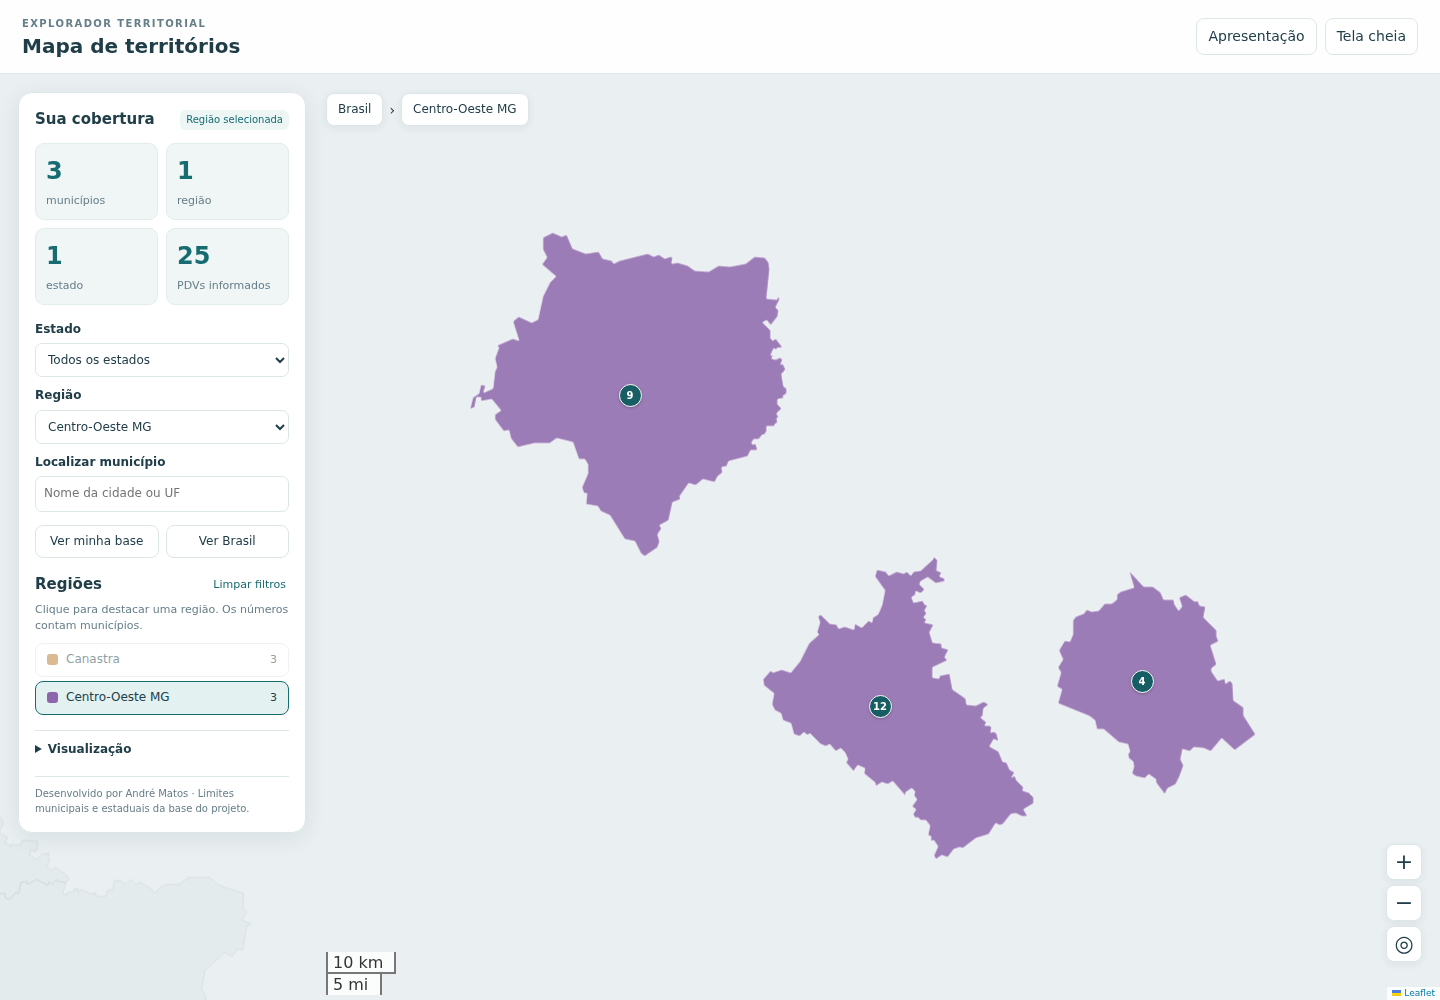
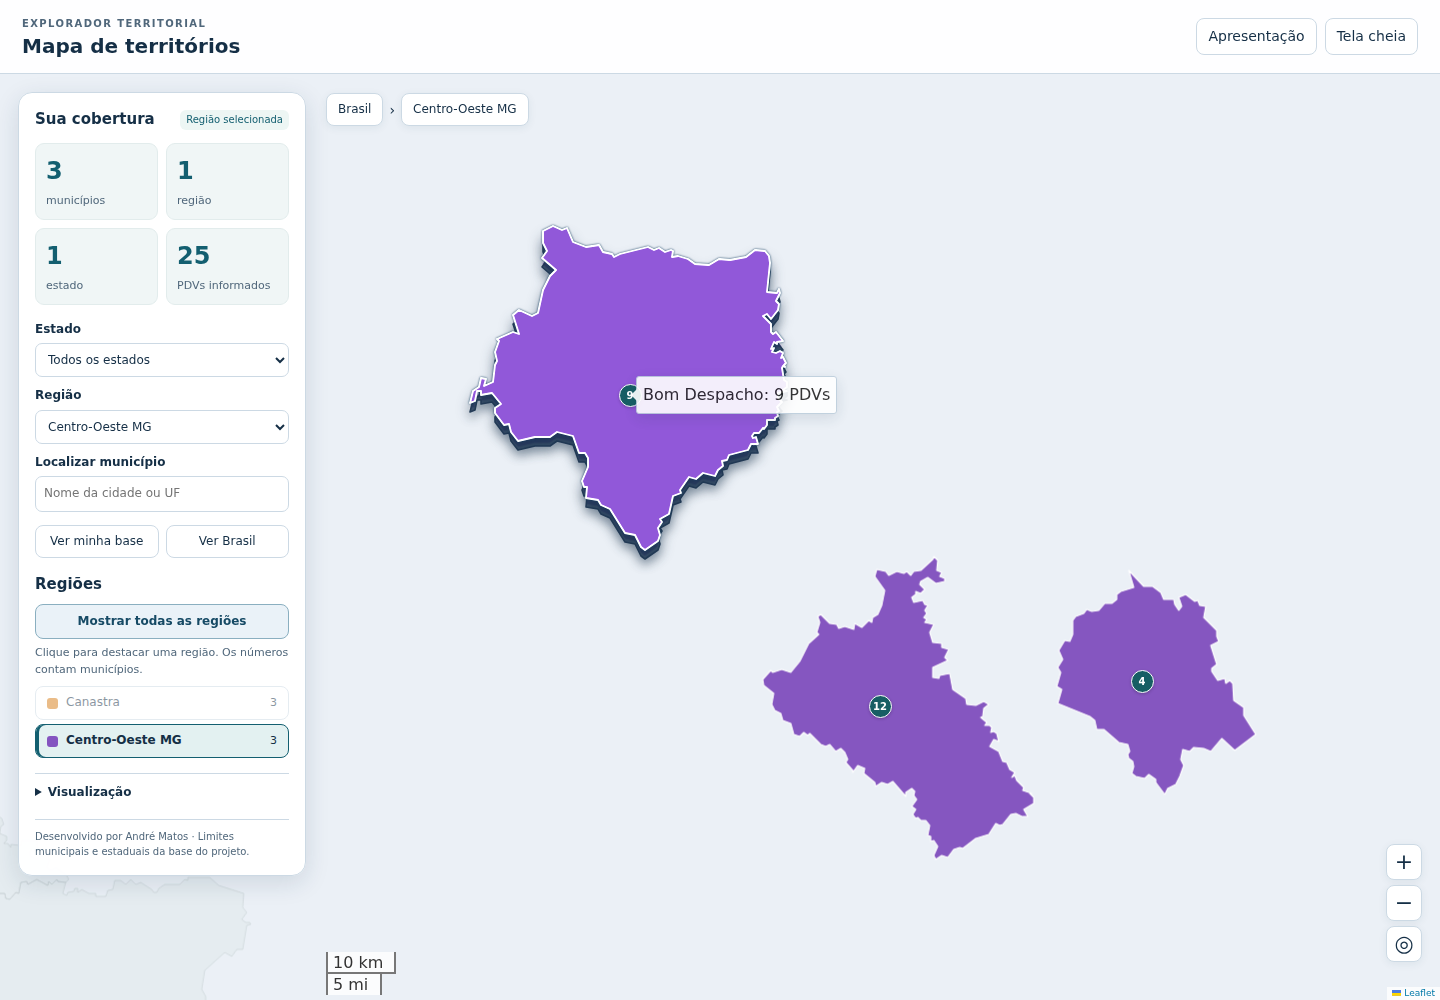
Reforça contraste e relevo dos territórios e remove demonstração

diff --git a/mapas/assets/explorador.js b/mapas/assets/explorador.js
@@ -11,6 +11,12 @@ let selectedState = '', selectedRegion = '', selectedCity = null, currentTiles =
 let geographic = false, presentation = config.apresentacao;
 let pendingResize = null;
 let municipalBoundaries = null;
+let hoveredFeature = null;
+map.createPane('territory-emphasis');
+map.getPane('territory-emphasis').style.zIndex = 460;
+map.getPane('territory-emphasis').style.pointerEvents = 'none';
+const emphasisRenderer = L.svg({pane: 'territory-emphasis', padding: .5});
+const emphasis = L.layerGroup().addTo(map);
 
 function node(tag, text, className) {
   const el = document.createElement(tag);
@@ -42,16 +48,41 @@ function fitBase() {
 function styleCity(f) {
   const active = matches(f.properties), selected = String(f.properties.id) === selectedCity;
   return {color: selected ? '#122c39' : active ? '#ffffff' : '#c4ced2',
-          weight: selected ? 2.8 : active ? .8 : .45,
+          weight: selected ? 2.8 : active ? 1.15 : .6,
           fillColor: active ? f.properties.cor : '#cbd5d9',
-          fillOpacity: active ? (geographic ? .53 : .84) : .15};
+          fillOpacity: active ? (geographic ? .72 : .98) : .20};
 }
 function styleState(f) {
   const uf = f.properties.uf;
   const inBase = baseStates.has(uf);
-  return {color: uf === selectedState ? '#174f62' : '#96aab2',
+  return {color: uf === selectedState ? '#174f62' : '#a5b4c4',
           weight: uf === selectedState ? 2.5 : inBase ? 1.4 : .8,
-          fillColor: '#e4ebee', fillOpacity: geographic ? 0 : .63};
+          fillColor: '#e9eff5', fillOpacity: geographic ? 0 : .86};
+}
+function renderEmphasis() {
+  emphasis.clearLayers();
+  const feature = hoveredFeature || (selectedCity ? byId.get(selectedCity) : null);
+  if (!feature) return;
+  const isCity = Boolean(feature.properties.regiao);
+  const addSurface = (className, style) => {
+    const surface = L.geoJSON(feature, {interactive: false, renderer: emphasisRenderer,
+      pane: 'territory-emphasis', style}).addTo(emphasis);
+    surface.eachLayer(layer => {
+      const path = layer.getElement();
+      path.classList.add(className);
+      path.classList.toggle('is-hovered', Boolean(hoveredFeature));
+      path.setAttribute('data-territory-id', String(feature.properties.id || feature.properties.uf));
+      path.setAttribute('aria-hidden', 'true');
+    });
+  };
+  addSurface('territory-wall', {fill: isCity, fillColor: '#273e59', fillOpacity: .85,
+    color: '#273e59', weight: isCity ? 1.6 : 3.2});
+  addSurface('territory-face', {fill: isCity, fillColor: feature.properties.cor || '#bccbdd',
+    fillOpacity: 1, color: isCity ? '#ffffff' : '#284d70', weight: isCity ? 1.8 : 2.1});
+}
+function hoverTerritory(feature) { hoveredFeature = feature; renderEmphasis(); }
+function leaveTerritory(feature) {
+  if (hoveredFeature === feature) { hoveredFeature = null; renderEmphasis(); }
 }
 function closeDetail() {
   selectedCity = null; $('detail-panel').hidden = true;
@@ -136,6 +167,8 @@ const stateContext = L.geoJSON(states, {style: styleState, onEachFeature: (f, la
   const uf = f.properties.uf; stateLayers.set(uf, layer);
   layer.bindTooltip(node('span', uf), {sticky: true});
   layer.on('click', () => setFilters(uf, ''));
+  layer.on('mouseover', () => hoverTerritory(f));
+  layer.on('mouseout', () => leaveTerritory(f));
 }}).addTo(map);
 const municipalities = L.geoJSON(features, {style: styleCity, onEachFeature: (f, layer) => {
   const p = f.properties; cityLayers.set(String(p.id), layer);
@@ -144,8 +177,8 @@ const municipalities = L.geoJSON(features, {style: styleCity, onEachFeature: (f,
   if (config.temPdvs) tooltip.append(node('div', p.pdvs === null ? 'PDVs não informados' : fmt(p.pdvs) + ' PDVs'));
   layer.bindTooltip(tooltip, {sticky: true});
   layer.on('click', () => showCity(p.id));
-  layer.on('mouseover', () => layer.setStyle({weight: 2, color: '#244959'}));
-  layer.on('mouseout', () => layer.setStyle(styleCity(f)));
+  layer.on('mouseover', () => hoverTerritory(f));
+  layer.on('mouseout', () => leaveTerritory(f));
 }}).addTo(map);
 const labels = L.layerGroup().addTo(map), pdvMarkers = L.layerGroup().addTo(map);
 const centers = new Map();
@@ -167,6 +200,8 @@ function renderMapAnnotations() {
         iconSize: [size, size], iconAnchor: [size/2, size/2]})}).addTo(pdvMarkers);
       marker.bindTooltip(node('span', p.name + ': ' + fmt(p.pdvs) + ' PDVs'));
       marker.on('click', () => showCity(p.id));
+      marker.on('mouseover', () => hoverTerritory(f));
+      marker.on('mouseout', () => leaveTerritory(f));
     }
     if ($('show-names').checked && zoom >= 8) {
       L.circleMarker(point, {radius: 0, stroke: false, fill: false, interactive: false})
@@ -176,7 +211,9 @@ function renderMapAnnotations() {
   });
 }
 function refresh() {
+  hoveredFeature = null;
   municipalities.setStyle(styleCity); stateContext.setStyle(styleState);
+  renderEmphasis();
   renderStats(activeFeatures()); renderLegend(); renderBreadcrumb(); renderMapAnnotations();
   renderSearch();
 }
@@ -207,6 +244,7 @@ function updateBasemap() {
     currentTiles.addTo(map);
   }
   municipalities.setStyle(styleCity); stateContext.setStyle(styleState);
+  renderEmphasis();
 }
 Object.values(basemaps).filter(Boolean).forEach(layer => layer.on('tileerror', () => {
   if (currentTiles === layer) message('O mapa geográfico não carregou. A visão territorial e seus dados continuam disponíveis.');
@@ -264,6 +302,7 @@ map.on('zoomend moveend', () => {
   pendingResize = requestAnimationFrame(renderMapAnnotations);
 });
 map.on('resize', renderMapAnnotations);
+map.on('movestart zoomstart', () => { hoveredFeature = null; renderEmphasis(); });
 // Move os controles para dentro do mapa: continuam visíveis em tela cheia.
 map.getContainer().append($('territorios-ui'));
 L.DomEvent.disableClickPropagation($('territorios-ui'));

diff --git a/mapas/assets/explorador.css b/mapas/assets/explorador.css
@@ -1,5 +1,5 @@
-:root{--ink:#203e48;--muted:#667e88;--teal:#176c72;--line:#dce6e9}
-html,body{height:100%;margin:0} .folium-map{background-color:#f3f6f7!important}
+:root{--ink:#152f46;--muted:#50677b;--teal:#135f70;--line:#ccd9e4}
+html,body{height:100%;margin:0} .folium-map{background-color:#f6f8fc!important;background-image:radial-gradient(#29496219 .7px,transparent .7px);background-size:20px 20px}
 #territorios-ui{font:14px/1.45 system-ui,-apple-system,BlinkMacSystemFont,"Segoe UI",sans-serif;color:var(--ink)}
 #territorios-ui *{box-sizing:border-box}#territorios-ui [hidden]{display:none!important}
 #territorios-ui button,#territorios-ui input,#territorios-ui select{font:inherit;color:inherit}
@@ -14,5 +14,13 @@ html,body{height:100%;margin:0} .folium-map{background-color:#f3f6f7!important}
 .map-breadcrumb{position:absolute;z-index:1000;top:93px;left:326px;display:flex;gap:6px;align-items:center;flex-wrap:wrap;max-width:calc(100% - 350px)}.map-breadcrumb button{box-shadow:0 2px 8px #1b455212;font-size:12px!important}.map-breadcrumb .crumb-current{font-weight:700}.detail-panel{position:absolute;z-index:1000;top:148px;right:18px;width:248px;max-height:calc(100% - 200px);overflow:auto;background:#fffffff5;border:1px solid var(--line);border-radius:13px;padding:18px;box-shadow:0 5px 22px #1b455216}.detail-panel h2{font-size:20px;margin:7px 18px 15px 0!important;line-height:1.25}.detail-panel dl{margin:0 0 17px}.detail-panel dt{font-size:11px;color:var(--muted);margin-top:10px}.detail-panel dd{margin:2px 0 0;font-size:14px;overflow-wrap:anywhere}.close-detail{position:absolute;right:9px;top:8px;border:0!important;font-size:20px!important;padding:0 7px!important}.map-controls{position:absolute;z-index:1000;bottom:38px;right:18px;display:grid;gap:5px}.map-controls button{width:36px;height:36px;padding:0!important;font-size:22px!important;box-shadow:0 2px 8px #1b455212}.map-message{position:absolute;z-index:1001;bottom:35px;left:326px;max-width:calc(100% - 390px);padding:9px 14px;border-radius:8px;background:#fff7e6;border:1px solid #f3d7a0;font-size:12px}.panel-toggle{display:none}.search-results{list-style:none;padding:0;margin:5px 0;background:white;border:1px solid var(--line);border-radius:7px;max-height:200px;overflow:auto}.search-results button{width:100%;border:0!important;border-radius:0!important;text-align:left;font-size:12px!important}.search-results li+li{border-top:1px solid #eef2f3}.territorio-nome{background:#ffffffed;border:1px solid #dce6e9;border-radius:4px;box-shadow:none;font:11px system-ui;color:#203e48}.territorio-nome::before{display:none}.pdv-icon{background:transparent;border:0}.pdv-bubble{width:100%;height:100%;display:flex;align-items:center;justify-content:center;background:#175e64;color:white;border:1px solid white;border-radius:50%;box-shadow:0 1px 3px #0003;font-weight:650}.map-tooltip{font-family:system-ui;font-size:12px;padding:5px}.map-tooltip strong{display:block}
 #territorios-ui.presentation .map-editing,#territorios-ui.presentation #clear-filters{display:none}.presentation .map-panel{max-height:calc(100% - 124px)}
 .leaflet-container{font-family:system-ui}.leaflet-control-attribution{font-size:9px!important;max-width:75vw}.leaflet-control-scale{margin-left:326px!important}.leaflet-interactive{outline:none}.pdv-bubble{box-sizing:border-box}
+.territory-wall{transform:translateY(3px);filter:drop-shadow(0 6px 5px #152c4355);pointer-events:none}
+.territory-face{transform:translateY(-3px);filter:drop-shadow(0 0 1px #193c57) drop-shadow(0 5px 4px #132e4344);pointer-events:none}
+.territory-face.is-hovered{transform:translateY(-6px);filter:drop-shadow(0 0 1px #193c57) drop-shadow(0 10px 7px #10263f66) brightness(1.07) saturate(1.12)}
+#territorios-ui .restore-regions{width:100%;margin-top:8px;padding:8px 10px;font-size:12px;font-weight:650;border-color:#8aafc0;background:#eaf2f8;color:#164a65}
+#territorios-ui .region-item[aria-pressed=true]{box-shadow:inset 3px 0 #135f70;font-weight:650}
+.map-panel,.detail-panel{box-shadow:0 7px 24px #1a385422}
+.leaflet-tooltip{border-color:#bdcedc;box-shadow:0 4px 15px #18364a26}
+.map-tooltip{color:#17344a;padding:7px 9px}
 @media(max-width:1000px){.map-panel{width:252px}.map-breadcrumb{left:286px;max-width:calc(100% - 310px)}.map-message{left:286px}.detail-panel{width:220px}.leaflet-control-scale{margin-left:286px!important}}
 @media(max-width:720px){.map-header{height:65px;padding:9px 12px}#territorios-ui h1{font-size:16px;max-width:52vw}.eyebrow{font-size:8px}.header-actions{gap:4px}.header-actions button{font-size:10px!important;padding:6px!important}.map-panel{top:78px;left:10px;width:230px;max-height:calc(100% - 115px);padding:10px}.panel-toggle{display:block;width:100%;font-size:11px!important;margin-bottom:8px}.map-panel.collapsed{width:148px}.map-panel.collapsed #panel-content{display:none}.map-panel.collapsed .panel-toggle{margin:0}.map-breadcrumb{left:auto;right:12px;top:78px;max-width:calc(100% - 175px);justify-content:flex-end}.detail-panel{top:auto;bottom:35px;left:10px;right:57px;width:auto;max-height:40%;padding:13px}.detail-panel h2{font-size:17px;margin-bottom:7px!important}.detail-panel dl{display:grid;grid-template-columns:1fr 1fr;gap:0 10px}.detail-panel dt{grid-row:auto;margin-top:4px}.detail-panel dd{font-size:12px}.map-message{bottom:35px;left:10px;max-width:calc(100% - 70px)}.map-controls{right:10px}.leaflet-control-scale{margin-left:12px!important}}

diff --git a/mapas/assets/explorador.html b/mapas/assets/explorador.html
@@ -20,7 +20,8 @@
         <p id="search-status" class="small" aria-live="polite" hidden></p>
       </div>
       <div class="territory-actions"><button id="show-base">Ver minha base</button><button id="show-brazil">Ver Brasil</button></div>
-      <div class="legend-heading"><h2>Regiões</h2><button id="clear-filters" class="text-button">Limpar filtros</button></div>
+      <div class="legend-heading"><h2>Regiões</h2></div>
+      <button id="clear-filters" class="restore-regions">Mostrar todas as regiões</button>
       <p class="small">Clique para destacar uma região. Os números contam municípios.</p>
       <div id="region-legend" class="region-legend"></div>
       <details class="map-editing"><summary>Visualização</summary>

diff --git a/app_mapa.py b/app_mapa.py
@@ -34,15 +34,14 @@ def carregar_estados():
 @st.cache_data(show_spinner=False)
 def planilha_modelo():
     buffer = BytesIO()
-    pd.DataFrame([
-        {'Cidade': 'Bom Despacho', 'UF': 'MG', 'Região': 'Centro-Oeste MG', 'PDVs': 9},
-        {'Cidade': 'Divinópolis', 'UF': 'MG', 'Região': 'Centro-Oeste MG', 'PDVs': 12},
-        {'Cidade': 'Itaúna', 'UF': 'MG', 'Região': 'Centro-Oeste MG', 'PDVs': 4},
-        {'Cidade': 'Piumhi', 'UF': 'MG', 'Região': 'Canastra', 'PDVs': 7},
-        {'Cidade': 'São Roque de Minas', 'UF': 'MG', 'Região': 'Canastra', 'PDVs': 2},
-        {'Cidade': 'Vargem Bonita', 'UF': 'MG', 'Região': 'Canastra', 'PDVs': 0},
-    ]).to_excel(buffer, index=False)
+    pd.DataFrame(columns=['Cidade', 'UF', 'Região', 'PDVs']).to_excel(buffer, index=False)
     return buffer.getvalue()
+
+
+def ao_alterar_arquivo():
+    if st.session_state.get('arquivo_excel') is None:
+        for chave in ('base_df', 'base_nome', 'arquivo_processado'):
+            st.session_state.pop(chave, None)
 
 
 st.markdown('''<style>
@@ -54,16 +53,11 @@ st.markdown('''<style>
 with st.sidebar:
     st.header('Preparar mapa')
     st.caption('Carregue sua lista de cidades, estados e regiões comerciais.')
-    arquivo = st.file_uploader('Planilha Excel', type=['xlsx'], key='arquivo_excel')
-    st.download_button('Baixar planilha de exemplo', planilha_modelo(),
+    arquivo = st.file_uploader('Planilha Excel', type=['xlsx'], key='arquivo_excel', on_change=ao_alterar_arquivo)
+    st.download_button('Baixar modelo de planilha', planilha_modelo(),
                        file_name='modelo_territorios.xlsx',
                        mime='application/vnd.openxmlformats-officedocument.spreadsheetml.sheet')
     st.caption('Obrigatórias: Cidade, UF e Região. PDVs é uma coluna opcional.')
-    if st.button('Explorar exemplo', width='stretch'):
-        st.session_state['base_df'] = pd.read_excel(BytesIO(planilha_modelo()))
-        st.session_state['base_nome'] = 'Exemplo · Minas Gerais'
-        # Não reimporta um arquivo anterior enquanto o usuário explora o exemplo.
-        st.session_state['arquivo_processado'] = hashlib.sha256(arquivo.getvalue()).hexdigest() if arquivo else None
     titulo = st.text_input('Título do mapa', value='Mapa de territórios', max_chars=100)
     apresentacao = st.toggle('Abrir em modo apresentação', value=False,
                              help='Oculta busca e configurações dentro do mapa. Resumo e legenda continuam visíveis.')
@@ -73,7 +67,7 @@ with st.sidebar:
 
 if arquivo is not None:
     digest = hashlib.sha256(arquivo.getvalue()).hexdigest()
-    if digest != st.session_state.get('arquivo_processado'):
+    if digest != st.session_state.get('arquivo_processado') or st.session_state.get('base_nome') != arquivo.name:
         try:
             novo_df = pd.read_excel(BytesIO(arquivo.getvalue()))
             novo_df.columns = [texto(c) for c in novo_df.columns]
@@ -87,8 +81,12 @@ if arquivo is not None:
 st.title('Mapas Interativos')
 st.caption('Explore sua cobertura comercial por estado, região e município.')
 
+# Recupera sessões que ainda estavam na antiga demonstração, sem arquivo real.
+if arquivo is None and st.session_state.get('base_nome') == 'Exemplo · Minas Gerais':
+    ao_alterar_arquivo()
+
 if 'base_df' not in st.session_state:
-    st.info('Carregue uma planilha pela lateral ou use “Explorar exemplo” para conhecer a visualização.')
+    st.info('Carregue sua planilha pela lateral para visualizar todas as regiões do arquivo.')
     st.markdown('**Da planilha para a exploração:** importe sua base, confira as pendências e navegue pelo mapa. '
                 'Você pode buscar cidades, destacar regiões, consultar detalhes e baixar o HTML interativo.')
     st.stop()

diff --git a/tests/test_map_background.py b/tests/test_map_background.py
@@ -64,14 +64,34 @@ class MapBackgroundTest(unittest.TestCase):
 
 
 class StreamlitAppTest(unittest.TestCase):
-    def test_initial_screen_and_example_load(self):
+    def test_initial_screen_only_requests_users_file(self):
         app = AppTest.from_file(str(ROOT / 'app_mapa.py')).run(timeout=30)
         self.assertEqual(len(app.exception), 0, str(app.exception))
-        next(b for b in app.button if b.label == 'Explorar exemplo').click().run(timeout=30)
+        self.assertFalse(any(b.label == 'Explorar exemplo' for b in app.button))
+        self.assertEqual(len(app.metric), 0)
+        self.assertEqual(len(app.get('download_button')), 1)
+
+    def test_loaded_file_starts_with_all_regions(self):
+        app = AppTest.from_file(str(ROOT / 'app_mapa.py'))
+        app.session_state['base_df'] = pd.DataFrame([
+            {'Cidade': 'Bom Despacho', 'UF': 'MG', 'Região': 'Oeste'},
+            {'Cidade': 'Piumhi', 'UF': 'MG', 'Região': 'Canastra'},
+        ])
+        app.run(timeout=30)
         self.assertEqual(len(app.exception), 0, str(app.exception))
-        self.assertEqual([m.value for m in app.metric], ['6', '2', '0', '0'])
+        self.assertEqual([m.value for m in app.metric], ['2', '2', '0', '0'])
         self.assertEqual(len(app.get('download_button')), 3)
         self.assertEqual(len(app.get('iframe')), 1)
+
+    def test_old_demo_session_returns_to_upload_screen_without_file(self):
+        app = AppTest.from_file(str(ROOT / 'app_mapa.py'))
+        app.session_state['base_nome'] = 'Exemplo · Minas Gerais'
+        app.session_state['base_df'] = pd.DataFrame([
+            {'Cidade': 'Bom Despacho', 'UF': 'MG', 'Região': 'Oeste'},
+        ])
+        app.run(timeout=30)
+        self.assertEqual(len(app.exception), 0, str(app.exception))
+        self.assertEqual(len(app.metric), 0)
 
     def test_pending_rows_are_visible_and_do_not_enter_map(self):
         app = AppTest.from_file(str(ROOT / 'app_mapa.py'))

diff --git a/tests/test_interacao.py b/tests/test_interacao.py
@@ -107,6 +107,29 @@ class InteracaoTest(unittest.TestCase):
         self.page.locator('#show-pdvs').uncheck()
         self.assertEqual(self.page.locator('.pdv-bubble').count(), 0)
 
+    def test_hover_relief_clears_without_changing_filters_or_counts(self):
+        self.page.locator('#state-filter').select_option('MG')
+        self.page.locator('#region-filter').select_option('Centro-Oeste')
+        before = self.counts()
+        marker = self.page.locator('.pdv-bubble').filter(has_text='12')
+        marker.hover()
+        face = self.page.locator('.territory-face.is-hovered')
+        self.assertEqual(face.get_attribute('data-territory-id'), '3122306')
+        self.assertNotEqual(face.evaluate('el => getComputedStyle(el).filter'), 'none')
+        # Sai do marcador para o interior do polígono: testa o hover do mapa.
+        box = marker.bounding_box()
+        self.page.mouse.move(box['x'] + box['width'] + 20, box['y'] + box['height']/2)
+        self.assertEqual(face.get_attribute('data-territory-id'), '3122306')
+        self.assertEqual(self.counts(), before)
+        self.page.locator('#presentation').hover()
+        self.assertEqual(self.page.locator('.territory-face').count(), 0)
+        marker.click()
+        self.page.locator('#presentation').hover()
+        self.assertEqual(self.page.locator('.territory-face').count(), 1)
+        self.page.locator('#clear-filters').click()
+        self.assertEqual(self.counts(), ['7', '3', '2', '34'])
+        self.assertEqual(self.page.locator('.territory-face').count(), 0)
+
     def test_presentation_and_mobile_controls(self):
         self.page.locator('#presentation').click()
         self.assertTrue(self.page.locator('#city-search').is_hidden())

diff --git a/mapas/dados.py b/mapas/dados.py
@@ -12,8 +12,8 @@ from shapely.geometry import shape
 
 
 UF_VALIDAS = set('AC AL AP AM BA CE DF ES GO MA MT MS MG PA PB PR PE PI RJ RN RS RO RR SC SP SE TO'.split())
-CORES = ('#287f9e', '#5b8e55', '#b47728', '#8d65ac', '#bd5c68', '#33877e',
-         '#6875bc', '#936c4c', '#6c8862', '#a06097', '#497997', '#9b7d38')
+CORES = ('#1769aa', '#16865a', '#d67b13', '#8454c0', '#cc455c', '#008e9b',
+         '#4357bc', '#a35725', '#638a20', '#b23a91', '#087ca7', '#b18a10')
 
 
 def texto(value):

diff --git a/README.md b/README.md
@@ -13,7 +13,7 @@ pip install -r requirements.txt
 streamlit run app_mapa.py
 ```
 
-Na lateral, carregue um Excel `.xlsx` ou clique em **Explorar exemplo**. O botão **Baixar planilha de exemplo** fornece o modelo de importação.
+Na lateral, carregue seu Excel `.xlsx`. O botão **Baixar modelo de planilha** fornece somente os cabeçalhos para preenchimento; não carrega nem substitui sua base. Ao remover o arquivo no campo de upload, a aplicação volta à tela inicial.
 
 ## Planilha de entrada
 
@@ -44,7 +44,8 @@ Quando a coluna de PDVs existe, uma célula vazia significa **não informado**, 
 
 - **Estado e Região:** filtram o resumo e destacam os territórios selecionados. As demais cidades da base ficam discretas como contexto.
 - **Busca:** localiza cidades de toda a base, inclusive fora do filtro atual; aceita nomes sem acentos. Enter seleciona o primeiro resultado e Escape limpa a busca.
-- **Legenda:** mostra quantos municípios pertencem a cada região. Clique para destacar uma região; clique novamente para remover esse filtro.
+- **Legenda:** mostra quantos municípios pertencem a cada região. Clique para destacar uma região; clique novamente para remover esse filtro. **Mostrar todas as regiões** limpa os filtros e retorna ao enquadramento da base completa do arquivo.
+- **Contraste e relevo:** cores mais vivas, bordas claras e destaque com lateral escura e sombra ao passar o mouse sobre um território. O território selecionado mantém um relevo discreto. Os efeitos são visuais, sem alterar coordenadas nem áreas de clique.
 - **Seleção:** clique no município ou no marcador para consultar cidade, UF, região, código IBGE e PDVs, se informados.
 - **Navegação:** use o caminho Brasil → UF → Região → Município, os botões Ver minha base / Ver Brasil e os controles de zoom.
 - **Cores:** atribuídas à base completa e mantidas ao filtrar ou reordenar a mesma planilha. Regiões com grafias equivalentes são unificadas; até 12 regiões recebem cores distintas da paleta, com variações adicionais para bases maiores. Alterar a composição da base pode reorganizar cores para evitar repetições.
